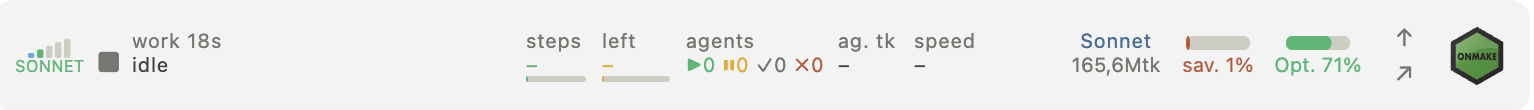
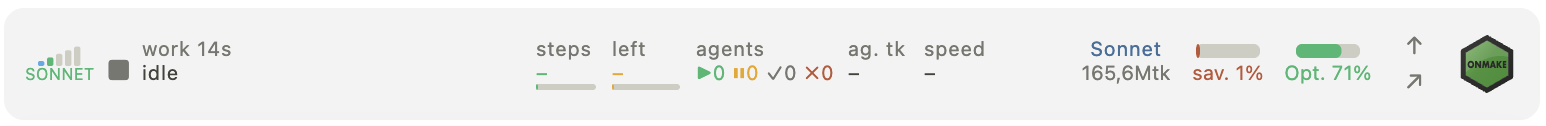
Gear 0.6.185: titolo inglese Gear / Levels, nuove immagini barra e pannello

diff --git a/onmake-gear/hooks/band/register.tsx b/onmake-gear/hooks/band/register.tsx
@@ -7,7 +7,7 @@ import type { Attivo, Dati, Passo, Sessione } from '../../types'
 const colMod = (m: string, eff = '') => /haiku/i.test(m) ? '#5f9a6c' : /sonnet/i.test(m) ? (/high|max/.test(eff) ? '#8a78b0' : '#5c82a8') : /opus/i.test(m) ? '#c0714f' : undefined
 const COL: Record<string, string> = { light: '#7bb8e8', medium: '#6fc08a', high: '#e8b64a', opus: '#a78bd0', max: '#d9694f' }
 // Same as plugin.json: the engine does not hand the version to the module.
-const VERSIONE = '0.6.184'
+const VERSIONE = '0.6.185'
 const GRIGIO = '#9a9aa5'
 const dati = atom({ plugin: 'onmake-gear', key: 'dati' } as const, null)
 // Model and effort of the main chat's last model request, as the engine sends it.
@@ -99,7 +99,7 @@ const TR: Record<string, Record<string, string>> = {
     'tk ag.': 'ag. tk',
     'risp.': 'sav.',
     'in attesa': 'idle',
-    'Marce': 'Gears',
+    'Marce': 'Levels',
     'basso': 'low',
     'alto': 'high',
     'max': 'max',
